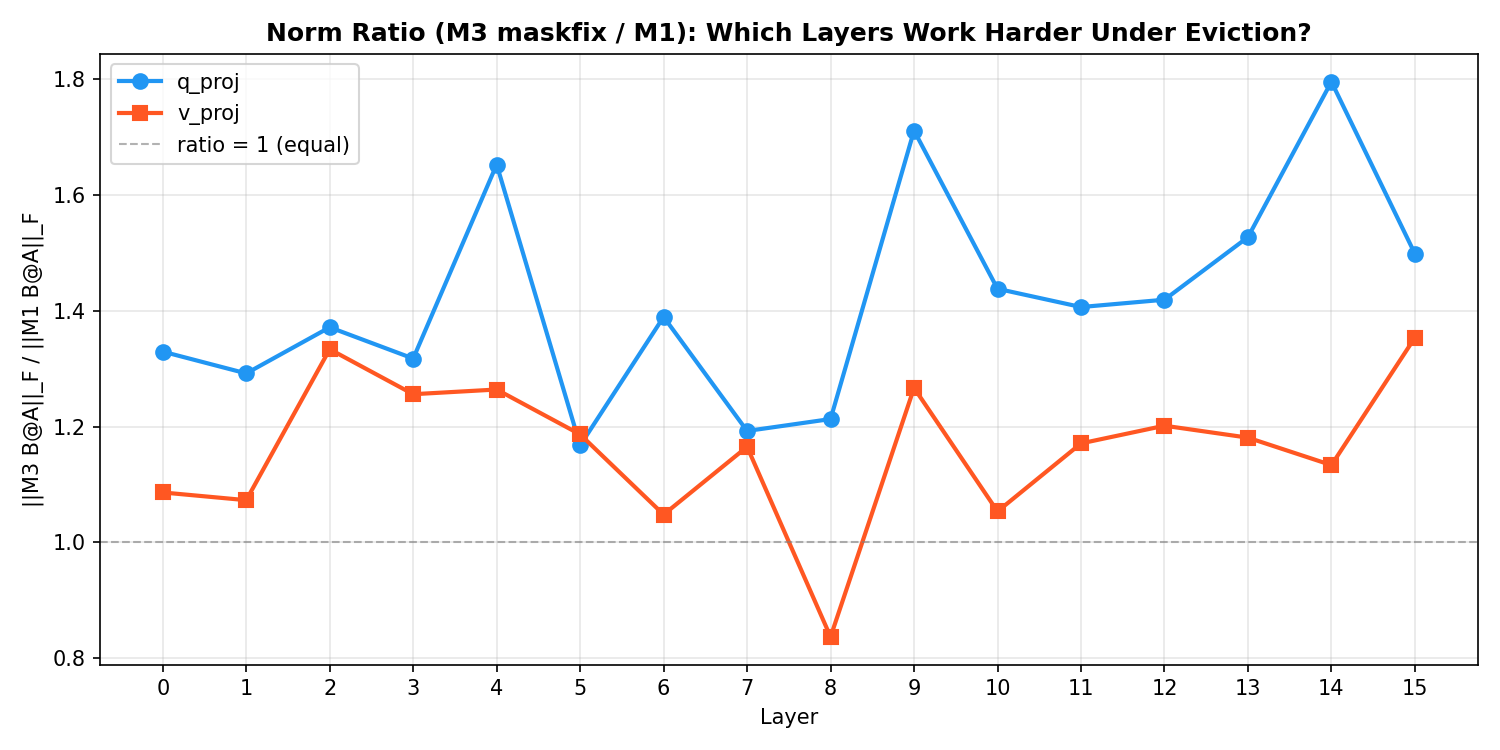
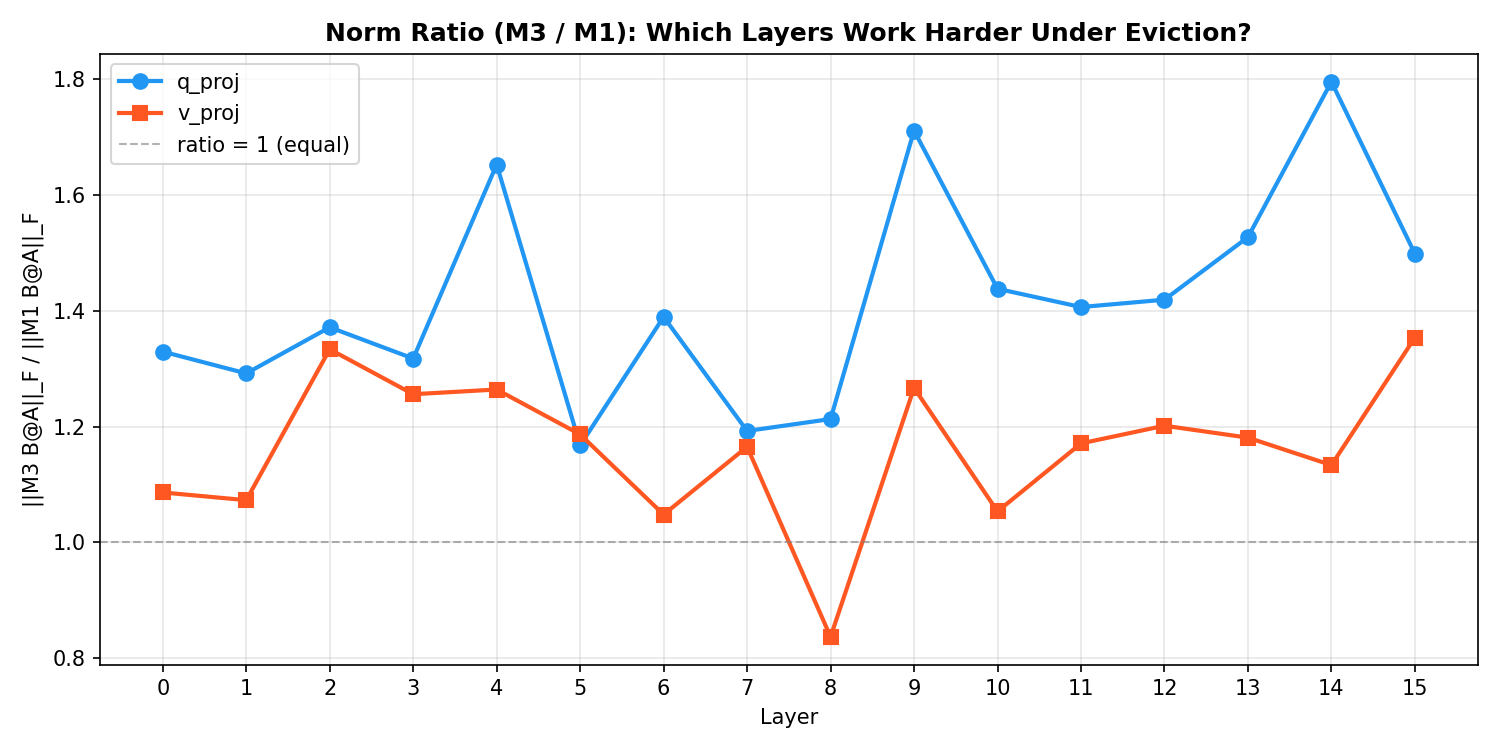
analysis: remove 'maskfix' from all plot labels and legends
Reports should present maskfix as the primary data without labelling
it as such. Updated generate_plots.py for reports 2-6 and regenerated
all affected plots.

Changed region(s): [[0.1533, 0.0307, 0.8893, 0.0613]]

diff --git a/analysis/report_5/scripts/generate_plots.py b/analysis/report_5/scripts/generate_plots.py
@@ -1,6 +1,6 @@
 #!/usr/bin/env python3
 """
-Analysis 5: Attention Entropy Shift Under Eviction (M1 vs M3 maskfix)
+Analysis 5: Attention Entropy Shift Under Eviction (M1 vs M3)
 =====================================================================
 Loads pre-computed attention entropy/sink data from maskfix_data.npz and
 generates three comparison plots. No GPU required.
@@ -36,7 +36,7 @@ import numpy as np
 #
 # Checkpoint paths used during data generation:
 #   M1 LoRA:          experiment_artifacts/gcs/M1/best_ckpt.pt
-#   M3 maskfix LoRA:  experiment_artifacts/gcs/M3_cs1024_maskfix/best_ckpt.pt
+#   M3 LoRA:  experiment_artifacts/gcs/M3_cs1024_maskfix/best_ckpt.pt
 #   M2 NAMM:          experiment_artifacts/gcs/M2_cs1024_maskfix/ckpt.pt
 #
 # To regenerate maskfix_data.npz, re-run the GPU script above.
@@ -72,8 +72,8 @@ def load_data() -> dict[str, np.ndarray]:
     Expected keys (used -- ignoring m3bug_ prefix):
         m1_entropy:   (16, 32) -- per-layer per-head mean entropy, M1
         m1_sinks:     (16, 32) -- per-layer per-head mean sink fraction, M1
-        m3mf_entropy: (16, 32) -- per-layer per-head mean entropy, M3 maskfix
-        m3mf_sinks:   (16, 32) -- per-layer per-head mean sink fraction, M3 maskfix
+        m3mf_entropy: (16, 32) -- per-layer per-head mean entropy, M3
+        m3mf_sinks:   (16, 32) -- per-layer per-head mean sink fraction, M3
     """
     if not DATA_FILE.exists():
         raise FileNotFoundError(
@@ -114,7 +114,7 @@ def plot_attention_entropy(data: dict[str, np.ndarray]) -> None:
     ax_ent.bar(layers - width / 2, m1_ent, width,
                label="M1 (full context)", color=M1_COLOR, alpha=0.85)
     ax_ent.bar(layers + width / 2, m3_ent, width,
-               label="M3 maskfix (evicted)", color=M3_COLOR, alpha=0.85)
+               label="M3 (evicted)", color=M3_COLOR, alpha=0.85)
     ax_ent.set_ylabel("Attention Entropy (nats)")
     ax_ent.set_title("Per-Layer Mean Attention Entropy", fontsize=12)
     ax_ent.legend(fontsize=10)
@@ -124,7 +124,7 @@ def plot_attention_entropy(data: dict[str, np.ndarray]) -> None:
     ax_snk.bar(layers - width / 2, m1_snk, width,
                label="M1 (full context)", color=M1_COLOR, alpha=0.85)
     ax_snk.bar(layers + width / 2, m3_snk, width,
-               label="M3 maskfix (evicted)", color=M3_COLOR, alpha=0.85)
+               label="M3 (evicted)", color=M3_COLOR, alpha=0.85)
     ax_snk.set_xlabel("Layer")
     ax_snk.set_ylabel("Attention Mass on First-5 Tokens")
     ax_snk.set_title("Per-Layer Mean Sink Fraction", fontsize=12)
@@ -132,7 +132,7 @@ def plot_attention_entropy(data: dict[str, np.ndarray]) -> None:
     ax_snk.legend(fontsize=10)
     ax_snk.grid(axis="y", alpha=0.3)
 
-    fig.suptitle("Attention Entropy and Sink Analysis: M1 vs M3 maskfix",
+    fig.suptitle("Attention Entropy and Sink Analysis: M1 vs M3",
                  fontsize=13, fontweight="bold")
     fig.tight_layout(rect=[0, 0, 1, 0.96])
     out = PLOT_DIR / "attention_entropy.png"
@@ -168,11 +168,11 @@ def plot_entropy_heatmap(data: dict[str, np.ndarray]) -> None:
                      vmin=vmin, vmax=vmax, origin="lower")
     ax2.set_xlabel("Head")
     ax2.set_ylabel("Layer")
-    ax2.set_title("M3 maskfix (evicted)", fontsize=12)
+    ax2.set_title("M3 (evicted)", fontsize=12)
     ax2.set_xticks(range(0, NUM_HEADS, 4))
     ax2.set_yticks(range(NUM_LAYERS))
 
-    fig.suptitle("Per-Head Attention Entropy by Layer: M1 vs M3 maskfix",
+    fig.suptitle("Per-Head Attention Entropy by Layer: M1 vs M3",
                  fontsize=13, fontweight="bold")
     fig.colorbar(im2, ax=[ax1, ax2], label="Entropy (nats)", shrink=0.8)
     out = PLOT_DIR / "entropy_heatmap.png"
@@ -195,7 +195,7 @@ def plot_entropy_diff(data: dict[str, np.ndarray]) -> None:
                    vmin=-abs_max, vmax=abs_max, origin="lower")
     ax.set_xlabel("Head")
     ax.set_ylabel("Layer")
-    ax.set_title("Entropy Difference (M3 maskfix - M1)\n"
+    ax.set_title("Entropy Difference (M3 - M1)\n"
                  "Red = M3 higher entropy, Blue = M1 higher entropy",
                  fontsize=12, fontweight="bold")
     ax.set_xticks(range(0, NUM_HEADS, 4))
@@ -231,7 +231,7 @@ def print_summary(data: dict[str, np.ndarray]) -> None:
     print(f"M3 sinks:  mean={m3_snk.mean():.4f}, std={m3_snk.std():.4f}")
 
     print("\n--- Per-Layer Mean Entropy ---")
-    print(f"{'Layer':>5} | {'M1':>10} | {'M3 maskfix':>12} | {'Diff':>10}")
+    print(f"{'Layer':>5} | {'M1':>10} | {'M3':>12} | {'Diff':>10}")
     print("-" * 45)
     m1_layer = m1_ent.mean(axis=1)
     m3_layer = m3_ent.mean(axis=1)

diff --git a/analysis/report_4/scripts/generate_plots.py b/analysis/report_4/scripts/generate_plots.py
@@ -1,6 +1,6 @@
 #!/usr/bin/env python3
 """
-Analysis 4: LoRA Weight Comparison (M1 vs M3 maskfix)
+Analysis 4: LoRA Weight Comparison (M1 vs M3)
 =====================================================
 Loads pre-computed weight analysis data from maskfix_data.npz and generates
 four comparison plots. No GPU required.
@@ -37,7 +37,7 @@ import numpy as np
 #
 # Checkpoint paths used during data generation:
 #   M1 LoRA:          experiment_artifacts/gcs/M1/best_ckpt.pt
-#   M3 maskfix LoRA:  experiment_artifacts/gcs/M3_cs1024_maskfix/best_ckpt.pt
+#   M3 LoRA:  experiment_artifacts/gcs/M3_cs1024_maskfix/best_ckpt.pt
 #
 # To regenerate maskfix_data.npz, re-run the GPU script above.
 # =============================================================================
@@ -97,7 +97,7 @@ def plot_weight_magnitude(data: dict[str, np.ndarray]) -> None:
         ax.bar(layers - width / 2, m1_norms, width,
                label="M1 (full ctx)", color=M1_COLOR, alpha=0.85)
         ax.bar(layers + width / 2, m3_norms, width,
-               label="M3 maskfix", color=M3_COLOR, alpha=0.85)
+               label="M3", color=M3_COLOR, alpha=0.85)
         ax.set_xlabel("Layer")
         ax.set_ylabel("||B @ A||_F")
         ax.set_title(f"Effective LoRA Update Norm -- {proj}")
@@ -105,7 +105,7 @@ def plot_weight_magnitude(data: dict[str, np.ndarray]) -> None:
         ax.legend()
         ax.grid(axis="y", alpha=0.3)
 
-    fig.suptitle("Per-Layer LoRA Weight Magnitude: M1 vs M3 maskfix",
+    fig.suptitle("Per-Layer LoRA Weight Magnitude: M1 vs M3",
                  fontsize=13, fontweight="bold")
     fig.tight_layout(rect=[0, 0, 1, 0.95])
     out = PLOT_DIR / "weight_magnitude.png"
@@ -136,7 +136,7 @@ def plot_singular_values(data: dict[str, np.ndarray]) -> None:
                label="M1" if layer == 0 else None,
                color=M1_COLOR, alpha=0.85)
         ax.bar(x + 0.2, sv_m3, 0.4,
-               label="M3 maskfix" if layer == 0 else None,
+               label="M3" if layer == 0 else None,
                color=M3_COLOR, alpha=0.85)
         ax.set_title(f"Layer {layer}", fontsize=9)
         ax.set_xticks(x)
@@ -146,9 +146,9 @@ def plot_singular_values(data: dict[str, np.ndarray]) -> None:
             ax.set_ylabel("Singular value")
         ax.grid(axis="y", alpha=0.3)
 
-    fig.suptitle("Singular Value Spectrum of B@A (q_proj): M1 vs M3 maskfix",
+    fig.suptitle("Singular Value Spectrum of B@A (q_proj): M1 vs M3",
                  fontsize=13, fontweight="bold")
-    fig.legend(["M1 (full ctx)", "M3 maskfix"], loc="upper right", fontsize=10)
+    fig.legend(["M1 (full ctx)", "M3"], loc="upper right", fontsize=10)
     fig.tight_layout(rect=[0, 0, 1, 0.95])
     out = PLOT_DIR / "singular_values.png"
     fig.savefig(out)
@@ -174,7 +174,7 @@ def plot_subspace_overlap(data: dict[str, np.ndarray]) -> None:
            label="v_proj", color=M3_COLOR, alpha=0.85)
     ax.set_xlabel("Layer")
     ax.set_ylabel("Mean cosine of principal angles")
-    ax.set_title("Subspace Overlap Between M1 and M3 maskfix LoRA Column Spaces",
+    ax.set_title("Subspace Overlap Between M1 and M3 LoRA Column Spaces",
                  fontsize=12, fontweight="bold")
     ax.set_xticks(layers)
     ax.set_ylim(0, 1.05)
@@ -207,7 +207,7 @@ def plot_norm_ratio(data: dict[str, np.ndarray]) -> None:
                label="ratio = 1 (equal)")
     ax.set_xlabel("Layer")
     ax.set_ylabel("||M3 B@A||_F / ||M1 B@A||_F")
-    ax.set_title("Norm Ratio (M3 maskfix / M1): Which Layers Work Harder Under Eviction?",
+    ax.set_title("Norm Ratio (M3 / M1): Which Layers Work Harder Under Eviction?",
                  fontsize=12, fontweight="bold")
     ax.set_xticks(layers)
     ax.legend()

diff --git a/analysis/report_2/scripts/generate_plots.py b/analysis/report_2/scripts/generate_plots.py
@@ -1,6 +1,6 @@
 """Report 2 -- Adaptation Rate and Learning Efficiency (Mask-Fix).
 
-Pulls training curves from WandB for M1 (full-context LoRA) and M3 maskfix
+Pulls training curves from WandB for M1 (full-context LoRA) and M3
 (LoRA + frozen NAMM with corrected attention mask) and generates:
   1. learning_curves_overlay.png -- raw val F1 with light smoothing
   2. normalised_improvement.png  -- normalised improvement curves [0, 1]
@@ -34,17 +34,17 @@ OUT_DIR = os.path.join(os.path.dirname(os.path.abspath(__file__)), os.pardir, "p
 M1_RUN_IDS = ["kz6vqo2o", "x9a4smmf", "qfoxxi2m"]
 M1_BASELINE_RUN = "kz6vqo2o"
 
-# M3 maskfix: LoRA + frozen NAMM, cs1024
+# M3: LoRA + frozen NAMM, cs1024
 M3_MASKFIX_RUN_ID = "h0bzg6on"
 
-CONDITIONS = ["M1", "M3 maskfix"]
+CONDITIONS = ["M1", "M3"]
 CONDITION_COLORS = {
     "M1": "#d62728",
-    "M3 maskfix": "#1f77b4",
+    "M3": "#1f77b4",
 }
 CONDITION_LINESTYLES = {
     "M1": "-",
-    "M3 maskfix": "--",
+    "M3": "--",
 }
 
 SMOOTH_WINDOW = 5
@@ -249,15 +249,15 @@ def main() -> None:
         f"--{m1_df['lora/global_step'].max():.0f}"
     )
 
-    print(f"Fetching M3 maskfix data ({M3_MASKFIX_RUN_ID})...")
+    print(f"Fetching M3 data ({M3_MASKFIX_RUN_ID})...")
     m3_df = fetch_lora_history(api, [M3_MASKFIX_RUN_ID])
     print(
-        f"  M3 maskfix: {len(m3_df)} rows, steps "
+        f"  M3: {len(m3_df)} rows, steps "
         f"{m3_df['lora/global_step'].min():.0f}"
         f"--{m3_df['lora/global_step'].max():.0f}"
     )
 
-    data = {"M1": m1_df, "M3 maskfix": m3_df}
+    data = {"M1": m1_df, "M3": m3_df}
 
     print("\nFetching baselines...")
     m1_baseline = get_baseline(api, M1_BASELINE_RUN)
@@ -268,9 +268,9 @@ def main() -> None:
         m3_baseline = m1_baseline
         print(f"  M3 baseline not found, falling back to M1 baseline: {m1_baseline:.2f}")
     else:
-        print(f"  M3 maskfix baseline: {m3_baseline:.2f}")
+        print(f"  M3 baseline: {m3_baseline:.2f}")
     print(f"  M1 baseline: {m1_baseline:.2f}")
-    baselines = {"M1": m1_baseline, "M3 maskfix": m3_baseline}
+    baselines = {"M1": m1_baseline, "M3": m3_baseline}
 
     print("\nSummary:")
     for cond in CONDITIONS:

diff --git a/analysis/report_6/scripts/generate_plots.py b/analysis/report_6/scripts/generate_plots.py
@@ -1,6 +1,6 @@
 #!/usr/bin/env python3
 """
-Analysis 6: Token Importance Alignment (M1 vs M3 maskfix)
+Analysis 6: Token Importance Alignment (M1 vs M3)
 ==========================================================
 Loads pre-computed NAMM-score-vs-attention alignment data from
 data/maskfix_alignment_data.json and generates three plots. No GPU required.
@@ -37,7 +37,7 @@ import numpy as np
 #
 # Checkpoint paths used during data generation:
 #   M1 LoRA:          experiment_artifacts/gcs/M1/best_ckpt.pt
-#   M3 maskfix LoRA:  experiment_artifacts/gcs/M3_cs1024_maskfix/best_ckpt.pt
+#   M3 LoRA:  experiment_artifacts/gcs/M3_cs1024_maskfix/best_ckpt.pt
 #   M2 NAMM:          experiment_artifacts/gcs/M2_cs1024_maskfix/ckpt.pt
 #
 # To regenerate maskfix_alignment_data.json, re-run the GPU script above.
@@ -59,10 +59,10 @@ plt.rcParams.update({
     "axes.labelsize": 12,
 })
 
-# Condition styling -- M1 vs M3 maskfix only
-COLORS = {"M1": "#d62728", "M3_maskfix": "#1f77b4"}
-LABELS = {"M1": "M1 (LoRA full-context)", "M3_maskfix": "M3 maskfix (LoRA + frozen NAMM)"}
-CONDITION_ORDER = ["M1", "M3_maskfix"]
+# Condition styling -- M1 vs M3 only
+COLORS = {"M1": "#d62728", "M3": "#1f77b4"}
+LABELS = {"M1": "M1 (LoRA full-context)", "M3": "M3 (LoRA + frozen NAMM)"}
+CONDITION_ORDER = ["M1", "M3"]
 
 
 # =============================================================================
@@ -98,7 +98,7 @@ def load_data() -> dict:
                         ...
                     ]
                 },
-                "M3_maskfix": { ... same structure ... }
+                "M3": { ... same structure ... }
             }
         }
     """
@@ -296,7 +296,7 @@ def plot_alignment_shift(conditions: dict) -> None:
     ax.set_xticklabels([task_display.get(t, t) for t in task_names])
     ax.axhline(0, color="grey", linestyle=":", alpha=0.5)
     ax.set_ylabel("Mean Spearman rho (NAMM score vs attention)")
-    ax.set_title("Alignment Shift: M1 vs M3 maskfix\n"
+    ax.set_title("Alignment Shift: M1 vs M3\n"
                  "(Does M3 fine-tuning improve NAMM-attention alignment?)")
     ax.legend()
     ax.grid(True, alpha=0.3, axis="y")

diff --git a/analysis/report_3/scripts/generate_plots.py b/analysis/report_3/scripts/generate_plots.py
@@ -1,6 +1,6 @@
 """Report 3 -- Per-Layer Retention Pattern Analysis (Mask-Fix).
 
-Pulls retention data from WandB for M3 maskfix (LoRA + frozen NAMM with
+Pulls retention data from WandB for M3 corrected (LoRA + frozen NAMM with
 corrected attention mask) and generates:
   1. layer_retention_profile.png  -- mean retention ratio per layer
   2. retention_heatmap.png        -- heatmap of retention over training
@@ -35,9 +35,9 @@ OUT_DIR = os.path.join(os.path.dirname(os.path.abspath(__file__)), os.pardir, "p
 NUM_LAYERS = 16
 LAYER_COLS = [f"retention/layer_{i}" for i in range(NUM_LAYERS)]
 
-# M3 maskfix run (LoRA + frozen NAMM, cs1024, corrected attention mask)
+# M3 corrected run (LoRA + frozen NAMM, cs1024, corrected attention mask)
 M3_MASKFIX_RUN_ID = "h0bzg6on"
-M3_LABEL = "M3 maskfix cs1024"
+M3_LABEL = "M3 cs1024"
 M3_COLOR = "#1f77b4"
 
 SMOOTH_WINDOW = 15
